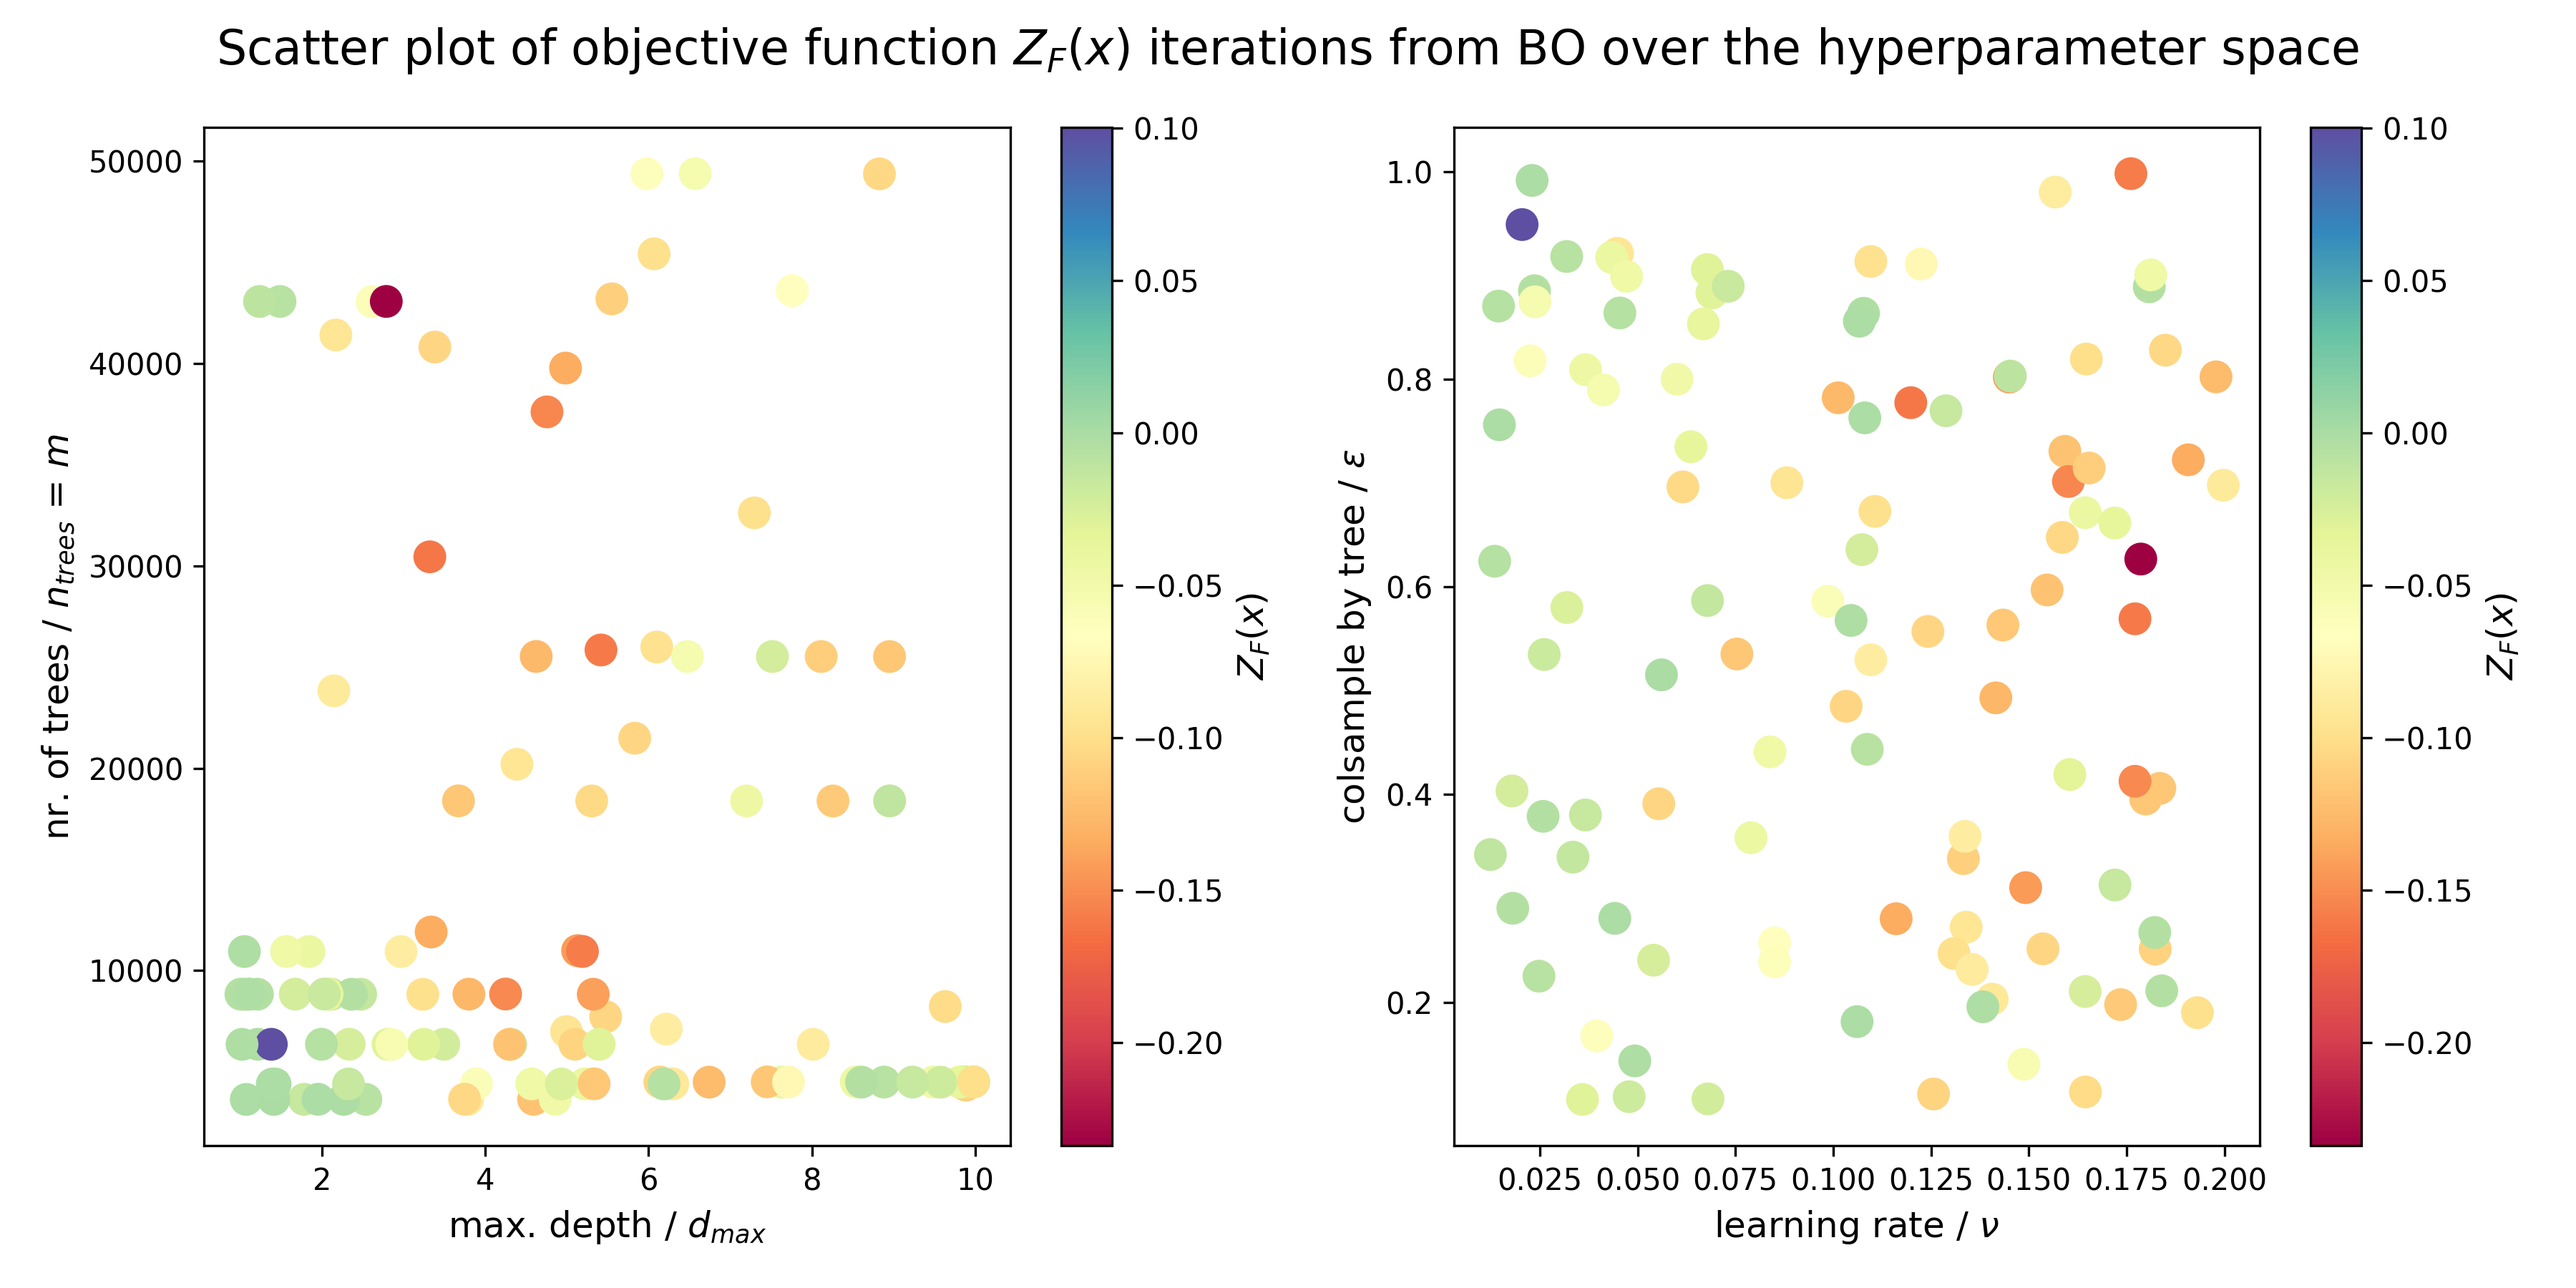
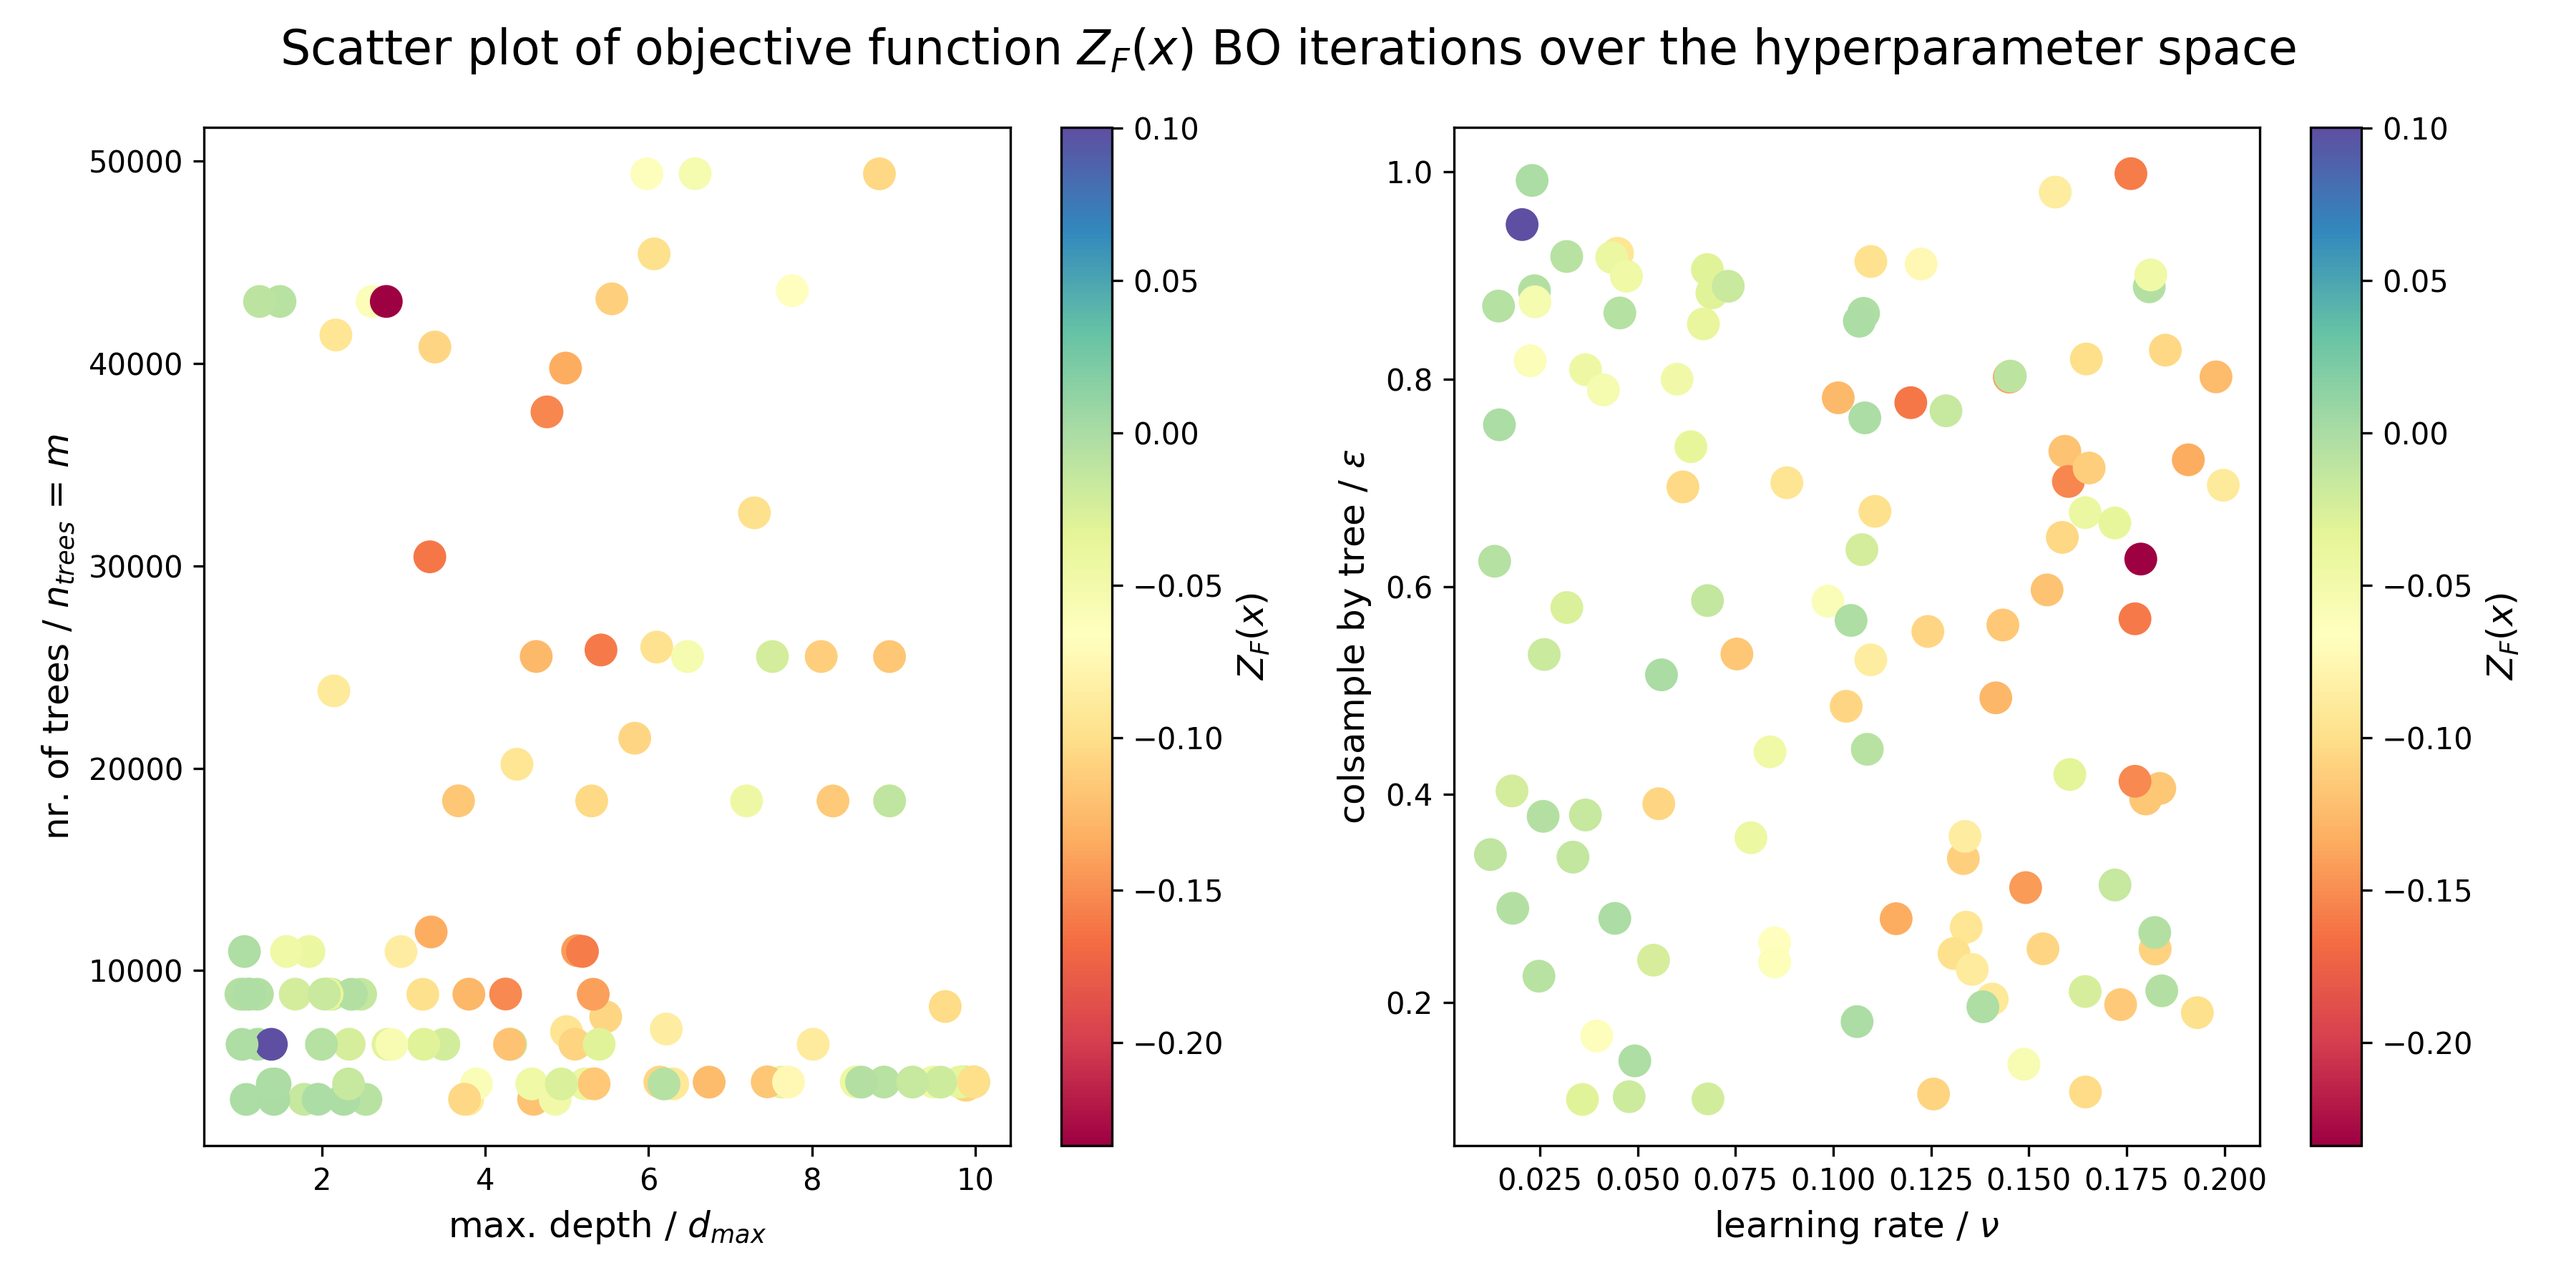
vps run

Changed region(s): [[0.0933, 0.0, 0.9333, 0.0622]]

diff --git a/teststudy/bayesian_optimization_testfunction_best_hyperparameters.py b/teststudy/bayesian_optimization_testfunction_best_hyperparameters.py
@@ -84,12 +84,12 @@ def plot_hyperparameter_scatter_plot(save_plot) -> None:
     fig, axs = plt.subplots(1, 2)
     fig.set_size_inches(12,6)
 
-    fig.suptitle("Scatter Plot of objective function $Z_F(x)$ over the hyperparameter space", fontsize = fontsize_title)
+    fig.suptitle("Scatter Plot of objective function $Z_F(x)$ BO iterations over the hyperparameter space", fontsize = fontsize_title)
 
     cm = plt.cm.get_cmap('Spectral')
     im_1 = axs[0].scatter(df["max_depth"], df["n_estimators"], c = df["target"], cmap = cm, s = 100)
     axs[0].set_xlabel("max. depth / $d_{max}$", fontsize = fontsize)
-    axs[0].set_ylabel("nr. of trees / $n_{trees}$ = m", fontsize = fontsize)
+    axs[0].set_ylabel("nr. of trees / $n_{trees}$ = $m$", fontsize = fontsize)
     cbar = plt.colorbar(im_1)
     cbar.set_label('$Z_F(x)$', rotation=90, fontsize = fontsize)
 
@@ -101,7 +101,7 @@ def plot_hyperparameter_scatter_plot(save_plot) -> None:
 
     fig.tight_layout()
     if save_plot == True:
-        plt.savefig(repo_path + "/figures/" + "gbm_with_decision_tree_hyperparameters_scatter_plot_2.png", dpi=300)
+        plt.savefig(repo_path + "/figures/" + "gbm_with_decision_tree_hyperparameters_scatter_plot.png", dpi=300)
     plt.show()
 
 

diff --git a/bayesian_opt/bayesian_optimization.py b/bayesian_opt/bayesian_optimization.py
@@ -4,7 +4,7 @@ MN: 12030366
 """
 import pandas as pd
 from lightgbm import LGBMRegressor
-from bayes_opt import BayesianOptimization, SequentialDomainReductionTransformer
+from bayes_opt import BayesianOptimization
 import time
 from datetime import date
 import gc
@@ -16,7 +16,6 @@ from preprocessing.cross_validators import era_splitting
 from preprocessing.pca_dimensional_reduction import dim_reduction
 from repo_utils import repo_path, loading
 
-#############################################
 #############################################
 #loading all necassary data from the reposiroty utils file 
 train, feature_cols, target_cols, targets_df, t20s, t60s = loading()

diff --git a/bayesian_opt/bo_numerai_scatterplot.py b/bayesian_opt/bo_numerai_scatterplot.py
@@ -57,7 +57,7 @@ def plot_hyperparameter_scatter_plot(save_plot) -> None:
     fig, axs = plt.subplots(1, 2)
     fig.set_size_inches(12,6)
 
-    fig.suptitle("Scatter plot of objective function $Z_F(x)$ iterations from BO over the hyperparameter space", fontsize = fontsize_title)
+    fig.suptitle("Scatter plot of objective function $Z_F(x)$ BO iterations over the hyperparameter space", fontsize = fontsize_title)
 
     cm = plt.cm.get_cmap('Spectral')
     im_1 = axs[0].scatter(df["max_depth"], df["n_estimators"], c = df["target"], cmap = cm, s = 100)

diff --git a/neuralnetwork/gbm_nn_comparison.py b/neuralnetwork/gbm_nn_comparison.py
@@ -28,8 +28,7 @@ train, feature_cols, target_cols, targets_df, t20s, t60s = loading()
 
 target = "target_cyrus_v4_20"
 
-nn_model_name = "nn_model_0"
-
+nn_model_name = "nn_model_n_epochs=10_batch_size=500"
 ifa = len(feature_cols)
 
 model_nn = nn.Sequential(
